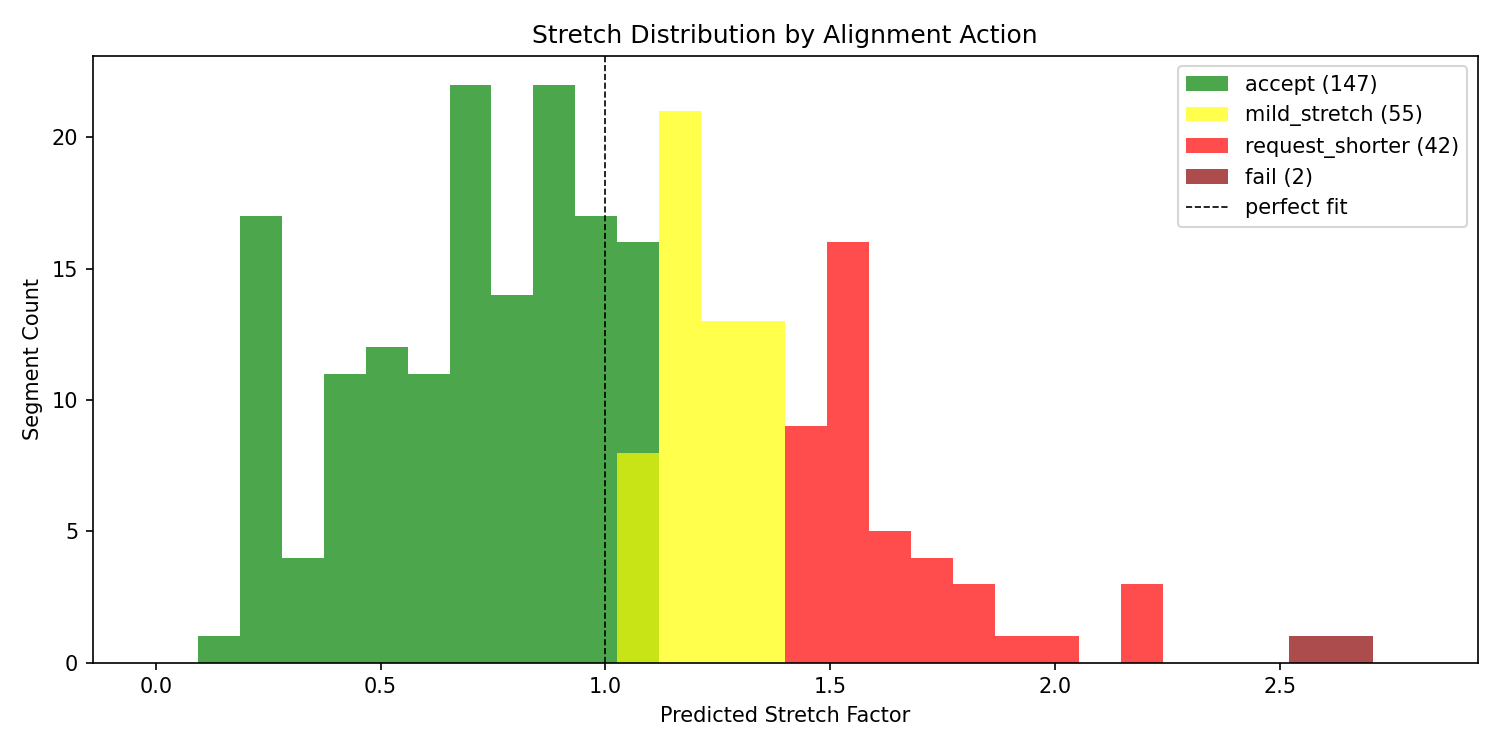
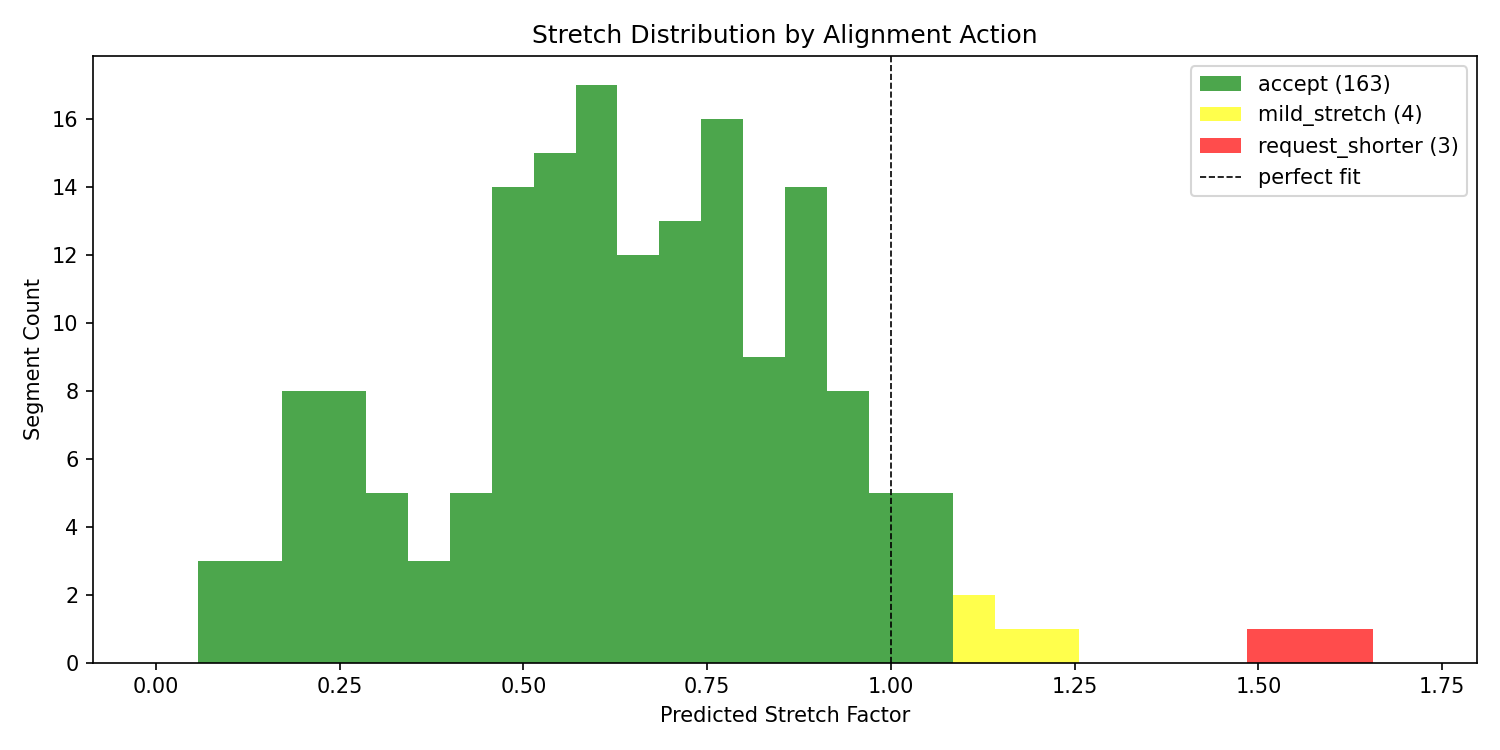
task 1 notbook 5

diff --git a/foreign_whispers/alignment.py b/foreign_whispers/alignment.py
@@ -74,7 +74,7 @@ class SegmentMetrics:
 
     def __post_init__(self) -> None:
         syllables = _count_syllables(self.translated_text)
-        self.predicted_tts_s = syllables / 4.5
+        self.predicted_tts_s = (0.24 * syllables) + 0.1 
         self.predicted_stretch = (
             self.predicted_tts_s / self.source_duration_s
             if self.source_duration_s > 0 else 1.0